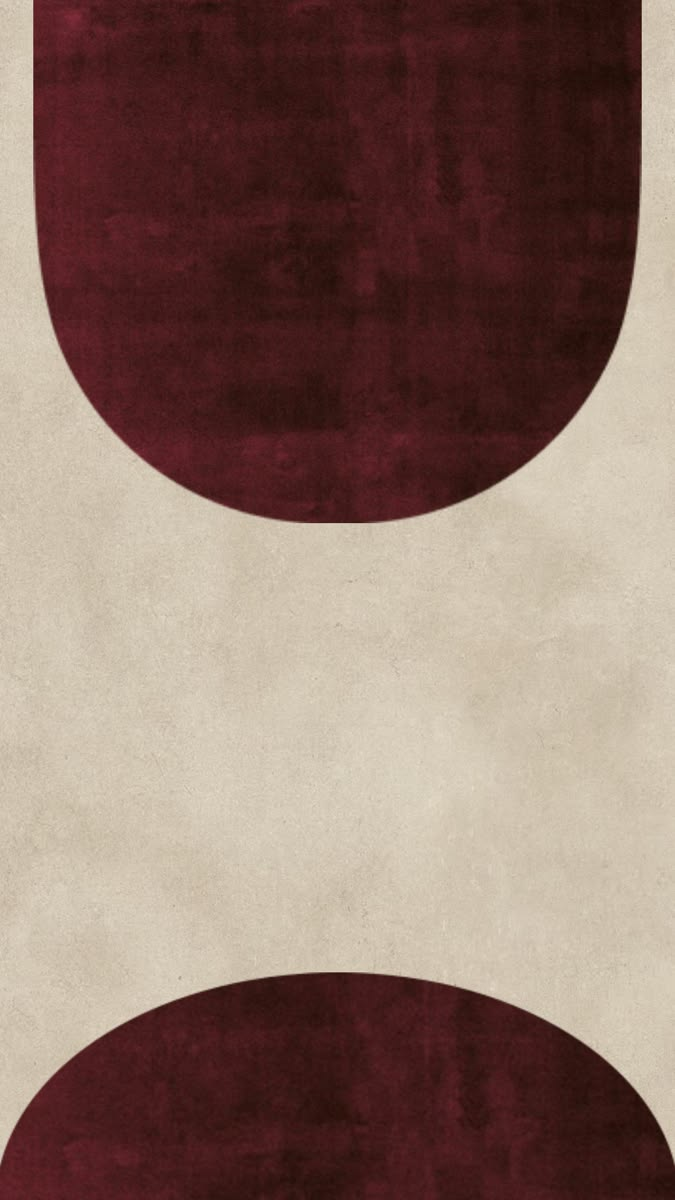
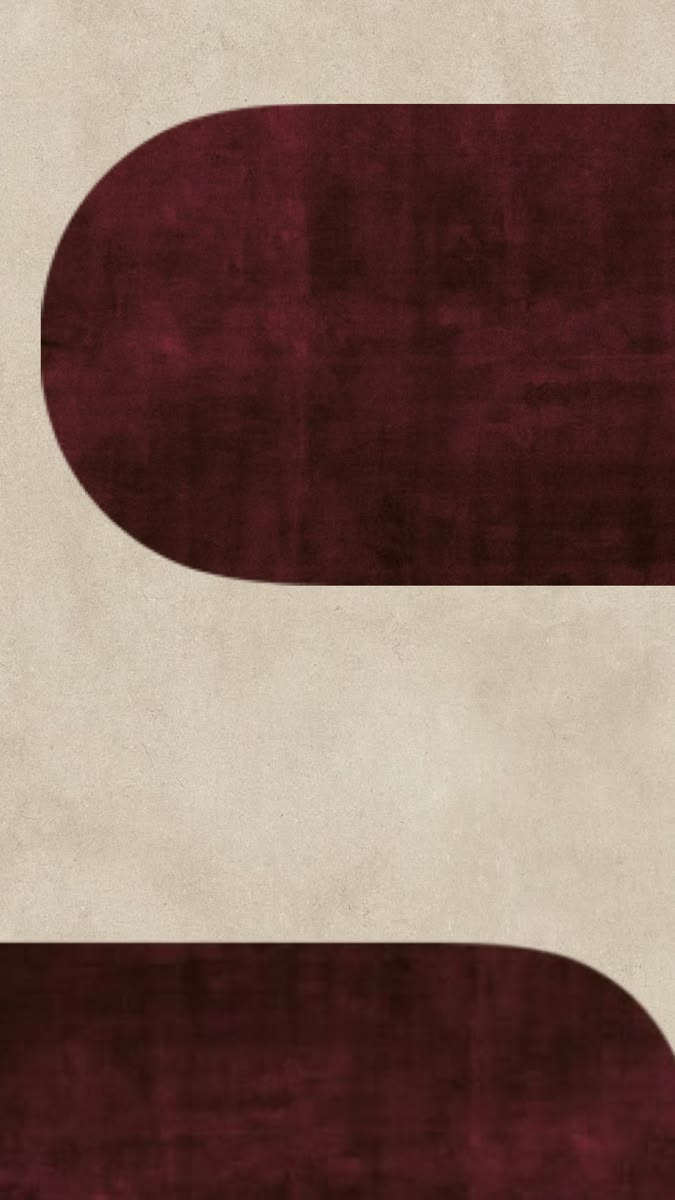
Replace background with back3 image

diff --git a/app/components/GlobalUI.tsx b/app/components/GlobalUI.tsx
@@ -220,7 +220,7 @@ export default function GlobalUI() {
           backgroundImage: "url('/bg-red.jpg')",
           backgroundSize: "100% auto",
           backgroundRepeat: "repeat-y",
-          backgroundPosition: "center -600px",
+          backgroundPosition: "top center",
           willChange: "transform",
           pointerEvents: "none",
         }}
